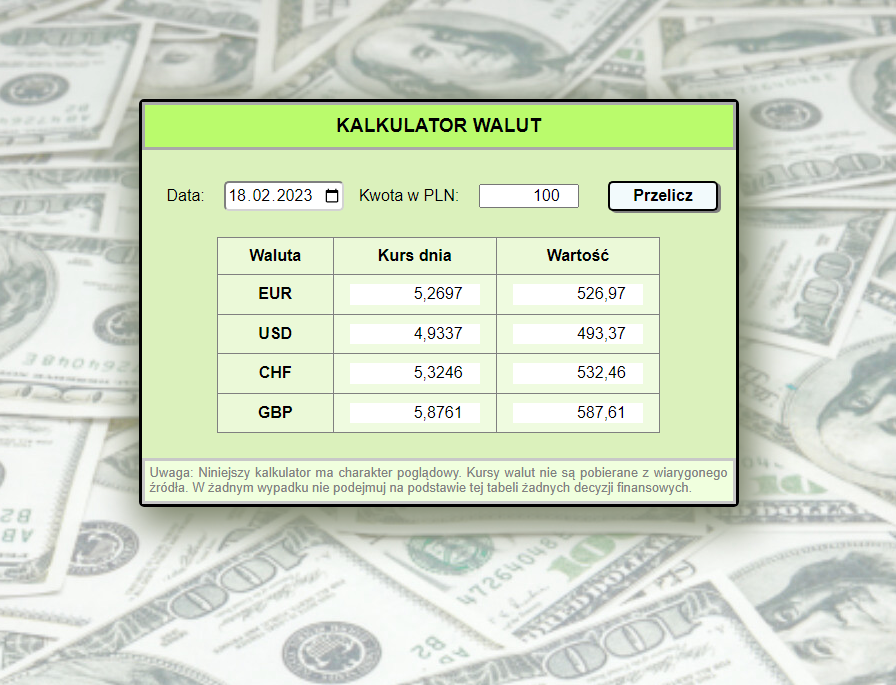
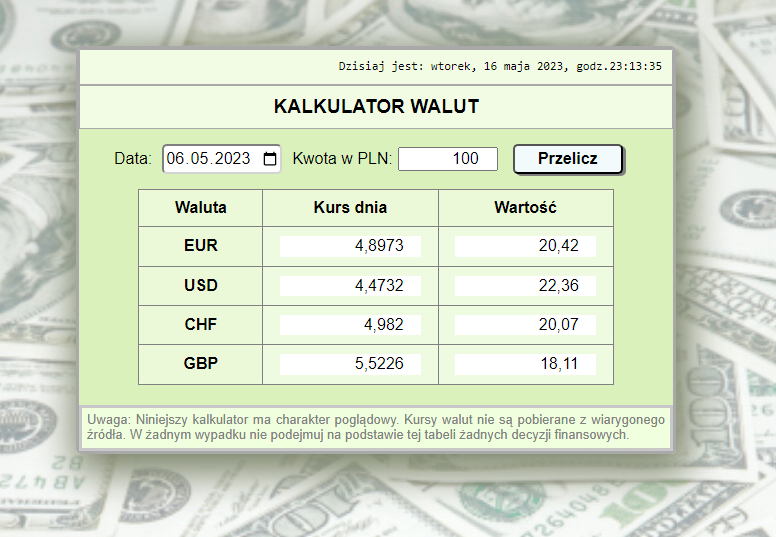
Add clock

diff --git a/public/index.html b/public/index.html
@@ -1,21 +1,19 @@
 <!DOCTYPE html>
 <html lang="pl">
-  <head>
-    <meta charset="utf-8" />
-    <link rel="icon" href="%PUBLIC_URL%/Calc.png" />
-    <meta name="viewport" content="width=device-width, initial-scale=1" />
-    <meta name="theme-color" content="#000000" />
-    <meta
-      name="description"
-      content="Web site created using create-react-app"
-    />
-    <!-- <link rel="apple-touch-icon" href="%PUBLIC_URL%/logo192.png" /> -->
-    <!--
+
+<head>
+  <meta charset="utf-8" />
+  <link rel="icon" href="%PUBLIC_URL%/Calc.png" />
+  <meta name="viewport" content="width=device-width, initial-scale=1" />
+  <meta name="theme-color" content="#000000" />
+  <meta name="description" content="Web site created using create-react-app" />
+  <!-- <link rel="apple-touch-icon" href="%PUBLIC_URL%/logo192.png" /> -->
+  <!--
       manifest.json provides metadata used when your web app is installed on a
       user's mobile device or desktop. See https://developers.google.com/web/fundamentals/web-app-manifest/
     -->
-    <link rel="manifest" href="%PUBLIC_URL%/manifest.json" />
-    <!--
+  <link rel="manifest" href="%PUBLIC_URL%/manifest.json" />
+  <!--
       Notice the use of %PUBLIC_URL% in the tags above.
       It will be replaced with the URL of the `public` folder during the build.
       Only files inside the `public` folder can be referenced from the HTML.
@@ -24,17 +22,18 @@
       work correctly both with client-side routing and a non-root public URL.
       Learn how to configure a non-root public URL by running `npm run build`.
     -->
-    <link rel="stylesheet" href="https://cdnjs.cloudflare.com/ajax/libs/normalize/8.0.1/normalize.min.css"
+  <link rel="stylesheet" href="https://cdnjs.cloudflare.com/ajax/libs/normalize/8.0.1/normalize.min.css"
     integrity="sha512-NhSC1YmyruXifcj/KFRWoC561YpHpc5Jtzgvbuzx5VozKpWvQ+4nXhPdFgmx8xqexRcpAglTj9sIBWINXa8x5w=="
     crossorigin="anonymous" referrerpolicy="no-referrer">
-<!-- <meta property="og:image" content="images/c25.png"> -->
-    <title>Currency calculator</title>
+  <meta property="og:image" content="calculator.png">
+  <title>Currency calculator</title>
 
-  </head>
-  <body>
-    <noscript>You need to enable JavaScript to run this app.</noscript>
-    <div id="root"></div>
-    <!--
+</head>
+
+<body class="body">
+  <noscript>You need to enable JavaScript to run this app.</noscript>
+  <div id="root"></div>
+  <!--
       This HTML file is a template.
       If you open it directly in the browser, you will see an empty page.
 
@@ -44,5 +43,6 @@
       To begin the development, run `npm start` or `yarn start`.
       To create a production bundle, use `npm run build` or `yarn build`.
     -->
-  </body>
+</body>
+
 </html>

diff --git a/src/App.js b/src/App.js
@@ -3,7 +3,8 @@ import Main from "./Main";
 import Header from "./Header";
 import Form from "./Form";
 import Table from "./Table";
-import Fotter from "./Fotter";
+import Footer from "./Footer";
+import Clock from "./Clock";
 
 function App() {
   const [currencyTable, setCurrencyTable] = useState([
@@ -24,27 +25,23 @@ function App() {
       ...line,
       rate: convertRate(line.indicator) * 10000 / 10000,
       value: Math.round(valuePLN * 100 / convertRate(line.indicator) * 10000 / 10000) / 100
-    })));
+    }))
+    );
   };
 
   const [valuePLN, setValuePLN] = useState(100.00);
-
   const changeValuePLN = (value) => {
     setValuePLN(value)
     resetTable();
   };
-
   const today = new Date();
-
   const maxDate = today.toISOString().slice(0, 10)
-
-  const [calculationDate, setCalculationDate] = useState(today.toISOString().slice(0, 10));
-
+  const [calculationDate, setCalculationDate] =
+    useState(today.toISOString().slice(0, 10));
   const changeDate = (value) => {
     setCalculationDate(value);
     resetTable();
   }
-
   const simulateRateOfDay = (indicator) =>
     (indicator * (100 + Math.round(calculationDate.slice(9, 10))) / 100);
 
@@ -53,6 +50,7 @@ function App() {
 
   return (
     <Main>
+      <Clock></Clock>
       <Header></Header>
       <Form
         calculationDate={calculationDate}
@@ -65,9 +63,9 @@ function App() {
       <Table
         currencyTable={currencyTable}>
       </Table>
-      <Fotter></Fotter>
+      <Footer></Footer>
     </Main>
   )
 }
 
-export default App;
+export default App; 

diff --git a/src/Clock/index.js b/src/Clock/index.js
@@ -1,0 +1,32 @@
+import { useState, useEffect } from "react";
+import "./style.css";
+
+export const Clock = () => {
+    const [dateTime, setDateTime] = useState(new Date());
+
+    useEffect(() => {
+        const showDateTime = setInterval(() => {
+            setDateTime(new Date())
+        }, 1000);
+        return () => {
+            clearInterval(showDateTime);
+        };
+    }, [])
+
+    return (<div className="clock">
+        Dzisiaj jest:{" "}
+        {dateTime.toLocaleString("default", {
+            weekday: "long",
+            day: "2-digit",
+            month: "long",
+            year: "numeric"
+        })}{", "}
+        godz.{dateTime.toLocaleString("default", {
+            hour: "2-digit",
+            minute: "2-digit",
+            second: "2-digit"
+        }
+        )}
+    </div>)
+}
+export default Clock;

diff --git a/src/Form/index.js b/src/Form/index.js
@@ -10,7 +10,6 @@ const Form = (props) => {
       onSubmit={onFormSubmit}
     > <div className="form__container">
         <label className="form__label">Data:</label>
-
         <input
           className="form__calculationDate"
           defaultValue={props.calculationDate}
@@ -21,7 +20,10 @@ const Form = (props) => {
           onChange={({ target }) => props.changeDate(target.value)}>
         </input>
         <label className="form__label">Kwota w PLN:</label>
-        <input className="form__input" required type="number" step="0.01"
+        <input className="form__input"
+          required
+          type="number"
+          step="0.01"
           defaultValue={props.valuePLN}
           onChange={({ target }) => props.changeValuePLN(target.value)}>
         </input>

diff --git a/src/Table/Row/index.js b/src/Table/Row/index.js
@@ -1,5 +1,5 @@
 import "./style.css";
-const Tr = ({ currencyTable }) =>
+const Row = ({ currencyTable }) =>
 ( 
     <tr>
              <th className="table__cell table__header">{currencyTable.currency}</th>
@@ -14,12 +14,12 @@ const Tr = ({ currencyTable }) =>
         <td className="table__cell"><input 
         className="table__inputCell"
             type="number" step="0.01"
-            value={currencyTable.value}
+            value={currencyTable.value }
             readOnly={true}
-            ></input>
-        </td>
+            accept=""
+        ></input></td>
     </tr>
  );
 
-export default Tr;
+export default Row;
 

diff --git a/src/Table/index.js b/src/Table/index.js
@@ -1,8 +1,8 @@
 import "./style.css";
-import Tbody from "./Tr";
+import Tbody from "./Row";
 
 const Table = ({ currencyTable }) => {
-    const trTable = (currencyTable) =>
+    const row = (currencyTable) =>
         currencyTable.map((currencyItems) =>
         (<Tbody key={currencyItems.currency}
                 currencyTable={currencyItems}>
@@ -19,7 +19,7 @@ const Table = ({ currencyTable }) => {
                     </tr>
                 </thead>
                 <tbody>
-                {trTable(currencyTable)}
+                {row(currencyTable)}
                 </tbody>
             </table>
         </div>

diff --git a/src/Footer/index.js b/src/Footer/index.js
@@ -1,0 +1,10 @@
+import "./style.css";
+
+const Footer = () => (
+  <footer className="footer">
+    <p className="footer__text">Uwaga: Niniejszy kalkulator ma charakter poglądowy. Kursy walut nie są pobierane z
+      wiarygonego źródła. W żadnym wypadku nie podejmuj na podstawie tej tabeli żadnych decyzji finansowych.
+    </p>
+  </footer>
+)
+export default Footer; 

diff --git a/src/Header/index.js b/src/Header/index.js
@@ -1,6 +1,8 @@
+import React from 'react';
 import "./style.css";
-
-const Header = () => (
-    <header className="header">KALKULATOR WALUT</header>
-);
+const Header = () => {
+    return (
+        <header className="header">KALKULATOR WALUT</header>
+    );
+}
 export default Header;

diff --git a/src/Clock/style.css b/src/Clock/style.css
@@ -1,0 +1,10 @@
+.clock {
+    text-align: right;
+    background-color: rgba(242, 252, 228, 1);
+    border-color: darkgrey;
+    border-style: solid;
+    border-width: 1px;
+    font-size: small;
+    font-family: monospace;
+    padding: 10px;
+}

diff --git a/src/index.css b/src/index.css
@@ -18,6 +18,9 @@ html {
   border-radius: 5px;
   overflow: auto; 
   margin: 100px auto;
+
+}
+.body{
   background-image:url("background.jpg"); 
   background-repeat: no-repeat  ;
   background-position:inherit;

diff --git a/src/Footer/style.css b/src/Footer/style.css
@@ -12,5 +12,5 @@
     font-size: small;
     border-color: rgb(200, 200, 200);
     border-style: solid;
-    text-align: justify;  
+    text-align: justify;
 }

diff --git a/src/Form/style.css b/src/Form/style.css
@@ -38,7 +38,6 @@
 }
 
 .form__input {
-
     width: 100px;
     text-align: right;
 }
